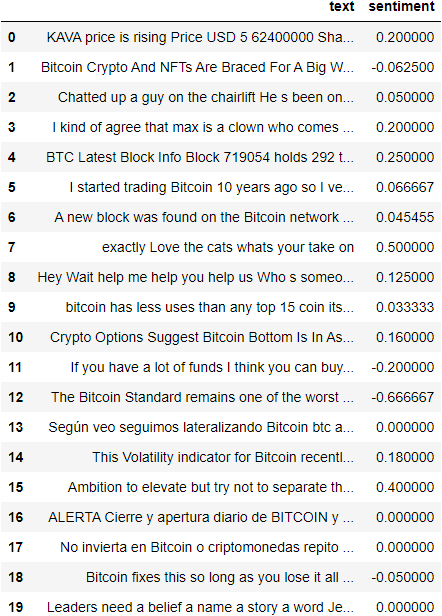
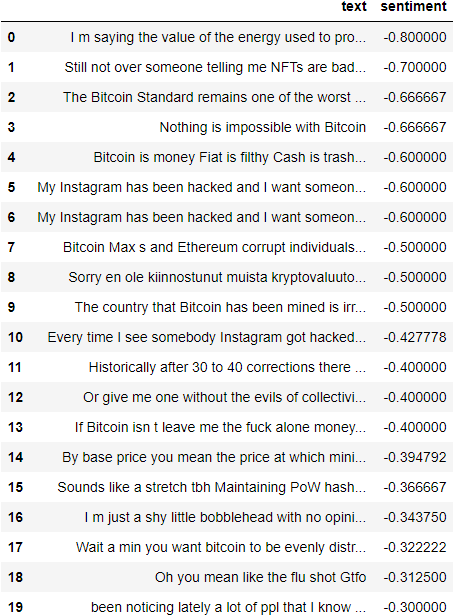
new article

diff --git a/_content/articles/220118_bitcoin_tweet/generated.html b/_content/articles/220118_bitcoin_tweet/generated.html
@@ -1,0 +1,170 @@
+<!-- wp:paragraph -->
+<p>In this post, I am going to download and analyze the tweets regarding Bitcoin tweets from the last two weeks and perform sentiment analysis to gather market intelligence. What are people's opinions about Bitcoin tweets?</p>
+<!-- /wp:paragraph -->
+
+<!-- wp:heading {"textColor":"secondary"} -->
+<h2 class="has-secondary-color has-text-color" id="what-is-sentiment-analysis">What is Sentiment Analysis?</h2>
+<!-- /wp:heading -->
+
+<!-- wp:paragraph -->
+<p>To do this, I will need to use Natural Language Processing as a way to gain insights into my data. One of the most common forms of analysis we can exploit using NLP is called sentiment analysis, and it consists of converting a text into a score that estimates its sentiment. There are several models we can use to perform sentiment analysis, but they all fulfill the same purpose.</p>
+<!-- /wp:paragraph -->
+
+<!-- wp:paragraph -->
+<p>The most common use case of sentiment analysis is to estimate the demand of the market for a certain product, hopefully entering into a trend just when it begins. In Finance, this is one of the most searched ML applications.</p>
+<!-- /wp:paragraph -->
+
+<!-- wp:paragraph -->
+<p>The project will be following these steps:</p>
+<!-- /wp:paragraph -->
+
+<!-- wp:list {"ordered":true} -->
+<ol><li>Download data from Twitter</li><li>Preprocess the data</li><li>Perform sentiment analysis</li><li>Analyze results</li></ol>
+<!-- /wp:list -->
+
+<!-- wp:heading {"textColor":"secondary"} -->
+<h2 class="has-secondary-color has-text-color" id="1-download-data-from-twitter">1. Download data from Twitter</h2>
+<!-- /wp:heading -->
+
+<!-- wp:paragraph -->
+<p>To download data from Twitter without using its metered API, hence without any limit on the volume of data I wish to scrape, I can use different libraries. One of the most common is called <strong>twint</strong>, however, after the latest Twitter updates, has not been working very well. </p>
+<!-- /wp:paragraph -->
+
+<!-- wp:paragraph -->
+<p>As a valid and also simpler alternative, I will be using <strong>snscrape</strong>. </p>
+<!-- /wp:paragraph -->
+
+<!-- wp:code {"backgroundColor":"primary"} -->
+<pre class="wp-block-code has-primary-background-color has-background"><code>!pip install snscrape</code></pre>
+<!-- /wp:code -->
+
+<!-- wp:paragraph -->
+<p>After installing the library with pip, I will need to declare which are the search parameters. Because I may need to use it on more queries, for example, I could search for the sentiment on the top 10 Billionaires, I want to be able to have a control panel that gives instruction to the program. </p>
+<!-- /wp:paragraph -->
+
+<!-- wp:paragraph -->
+<p>As such, I will use movie_dict as a variable to store all the instructions to perform multiple searches. For each search, a csv will be created with all the data I have been able to scrape from Twitter:</p>
+<!-- /wp:paragraph -->
+
+<!-- wp:code {"backgroundColor":"primary"} -->
+<pre class="wp-block-code has-primary-background-color has-background"><code>import snscrape.modules.twitter as sntwitter
+import pandas as pd
+import progressbar
+from time import sleep
+from datetime import datetime
+import os
+
+{'bitcoin': ['bitcoin since:2022-01-01 until:2022-01-17', 1000]}
+</code></pre>
+<!-- /wp:code -->
+
+<!-- wp:paragraph -->
+<p>The following is the code that executes the scrape:</p>
+<!-- /wp:paragraph -->
+
+<!-- wp:code {"backgroundColor":"primary"} -->
+<pre class="wp-block-code has-primary-background-color has-background"><code>today = datetime.today().strftime('%Y%m%d')&#91;2:]+'_'
+for index, movie_name in enumerate(movie_dict):
+    print(movie_name, '%')
+    tweets_list1 = &#91;]
+    bar = progressbar.ProgressBar(maxval=movie_dict&#91;movie_name]&#91;1]+2, widgets=&#91;progressbar.Bar('=', '&#91;', ']'), ' ', progressbar.Percentage()])
+    bar.start()
+    for i,tweet in enumerate(sntwitter.TwitterSearchScraper(f'{movie_dict&#91;movie_name]&#91;0]}').get_items()): #declare a username
+        bar.update(i+1)
+        if i&gt;movie_dict&#91;movie_name]&#91;1]: #number of tweets you want to scrape
+            break
+        #print(movie_name, i, tweet)
+        tweets_list1.append(&#91;tweet.date, tweet.id, tweet.content, tweet.user.username]) #declare the attributes to be returned
+    tweets_df1 = pd.DataFrame(tweets_list1, columns=&#91;'Datetime', 'Tweet Id', 'Text', 'Username'])
+
+    tweets_df1&#91;&#91;'Datetime', 'Text']].to_csv(f'{index}.csv')
+    bar.finish()</code></pre>
+<!-- /wp:code -->
+
+<!-- wp:paragraph -->
+<p>This code is an improved version of the <a href="https://medium.com/dataseries/how-to-scrape-millions-of-tweets-using-snscrape-195ee3594721">standard code used to run a query</a> to filter the tweets you wish to download from Twitter. You can use it to download not only one query, but a list of query</p>
+<!-- /wp:paragraph -->
+
+<!-- wp:heading {"textColor":"secondary"} -->
+<h2 class="has-secondary-color has-text-color" id="2-preprocess-the-data">2. Preprocess the data</h2>
+<!-- /wp:heading -->
+
+<!-- wp:paragraph -->
+<p>Now that a csv file has been created for every query in my control panel, let us look at the raw data of a single query:</p>
+<!-- /wp:paragraph -->
+
+<!-- wp:code {"backgroundColor":"primary"} -->
+<pre class="wp-block-code has-primary-background-color has-background"><code>import pandas as pd
+
+#when importing empty rows, they are transformed to nan, so we need to drop them here
+df = pd.read_csv('download/merged.csv')&#91;&#91;'text']]
+df</code></pre>
+<!-- /wp:code -->
+
+<!-- wp:paragraph -->
+<p>Because some of the rows may be null when importing the dataset, I am dropping them and resetting the index. I am also going to apply a small preprocessing snippet. Preprocessing is a step that you can customize depending on your needs. In this case, because I only want to get rid of links and non-ascii characters, I am going to use the following two functions:</p>
+<!-- /wp:paragraph -->
+
+<!-- wp:code {"backgroundColor":"primary"} -->
+<pre class="wp-block-code has-primary-background-color has-background"><code>#get rid of links and hashtags
+df&#91;"text"] = df&#91;"text"].apply(lambda x : ' '.join(&#91;s for s in x.split(' ') if s.find('@') == -1 and s.find('www') == -1 and s.find('https') == -1]))
+
+#get rid of non-ascii characters
+df = df.replace(r'\W+', ' ', regex=True)
+df</code></pre>
+<!-- /wp:code -->
+
+<!-- wp:paragraph -->
+<p>This is a screenshot of the dataframe after preprocessing:</p>
+<!-- /wp:paragraph -->
+
+<!-- wp:image {"align":"center","width":480,"height":616,"sizeSlug":"large","className":"is-style-default"} -->
+<div class="wp-block-image is-style-default"><figure class="aligncenter size-large is-resized"><img src="https://raw.githubusercontent.com/arditoibryan/pythonkai/main/_content/articles/220118_bitcoin_tweet/df.png" alt="" width="390" height="616"/><figcaption>df raw</figcaption></figure></div>
+<!-- /wp:image -->
+
+<!-- wp:heading {"textColor":"secondary"} -->
+<h2 class="has-secondary-color has-text-color" id="3-perform-sentiment-analysis">3. Perform sentiment analysis</h2>
+<!-- /wp:heading -->
+
+<!-- wp:paragraph -->
+<p>I am now going to apply a sentiment analysis to our cleaned data. There is a myriad of sentiment analysis libraries you can use to perform the same task, from <strong>transformers</strong>, <strong>textblob</strong>, <strong>spacy</strong>. For this tutorial I am going to use the latest version of spacy, and its extension called <a href="https://spacy.io/universe/project/spacy-textblob" target="_blank" rel="noreferrer noopener">spacytextblob</a>.</p>
+<!-- /wp:paragraph -->
+
+<!-- wp:paragraph -->
+<p>To install it, I will need to run the following commands and restart the notebook:</p>
+<!-- /wp:paragraph -->
+
+<!-- wp:code {"backgroundColor":"primary"} -->
+<pre class="wp-block-code has-primary-background-color has-background"><code>!pip install spacytexblob==3.0.1
+!pip install spacy==3.2.1
+!python -m textblob.download_corpora
+!python -m spacy download en_core_web_sm</code></pre>
+<!-- /wp:code -->
+
+<!-- wp:paragraph -->
+<p>Once the installation is complete, we can run the sentiment analysis and append the score to our dataframe:</p>
+<!-- /wp:paragraph -->
+
+<!-- wp:code {"backgroundColor":"primary"} -->
+<pre class="wp-block-code has-primary-background-color has-background"><code>import spacy
+from spacytextblob.spacytextblob import SpacyTextBlob
+
+nlp = spacy.load('en_core_web_sm')
+nlp.add_pipe("spacytextblob")
+
+df&#91;'sentiment'] = df&#91;'text'].apply(lambda x : nlp(x)._.polarity)
+df_sentiment = df.sort_values('sentiment').reset_index(drop=True)
+df_sentiment</code></pre>
+<!-- /wp:code -->
+
+<!-- wp:paragraph -->
+<p>As we can see, this is the final result:</p>
+<!-- /wp:paragraph -->
+
+<!-- wp:image {"align":"center","width":480,"height":616,"sizeSlug":"large","className":"is-style-default"} -->
+<div class="wp-block-image is-style-default"><figure class="aligncenter size-large is-resized"><img src="https://raw.githubusercontent.com/arditoibryan/pythonkai/main/_content/articles/220118_bitcoin_tweet/df_sentiment.png" alt="" width="480" height="616"/><figcaption>sentiment</figcaption></figure></div>
+<!-- /wp:image -->
+
+<!-- wp:paragraph -->
+<p>I decided to sort the values from the most negative, so that we could see some of the most shocking comments regarding Bitcoin tweets.</p>
+<!-- /wp:paragraph -->
